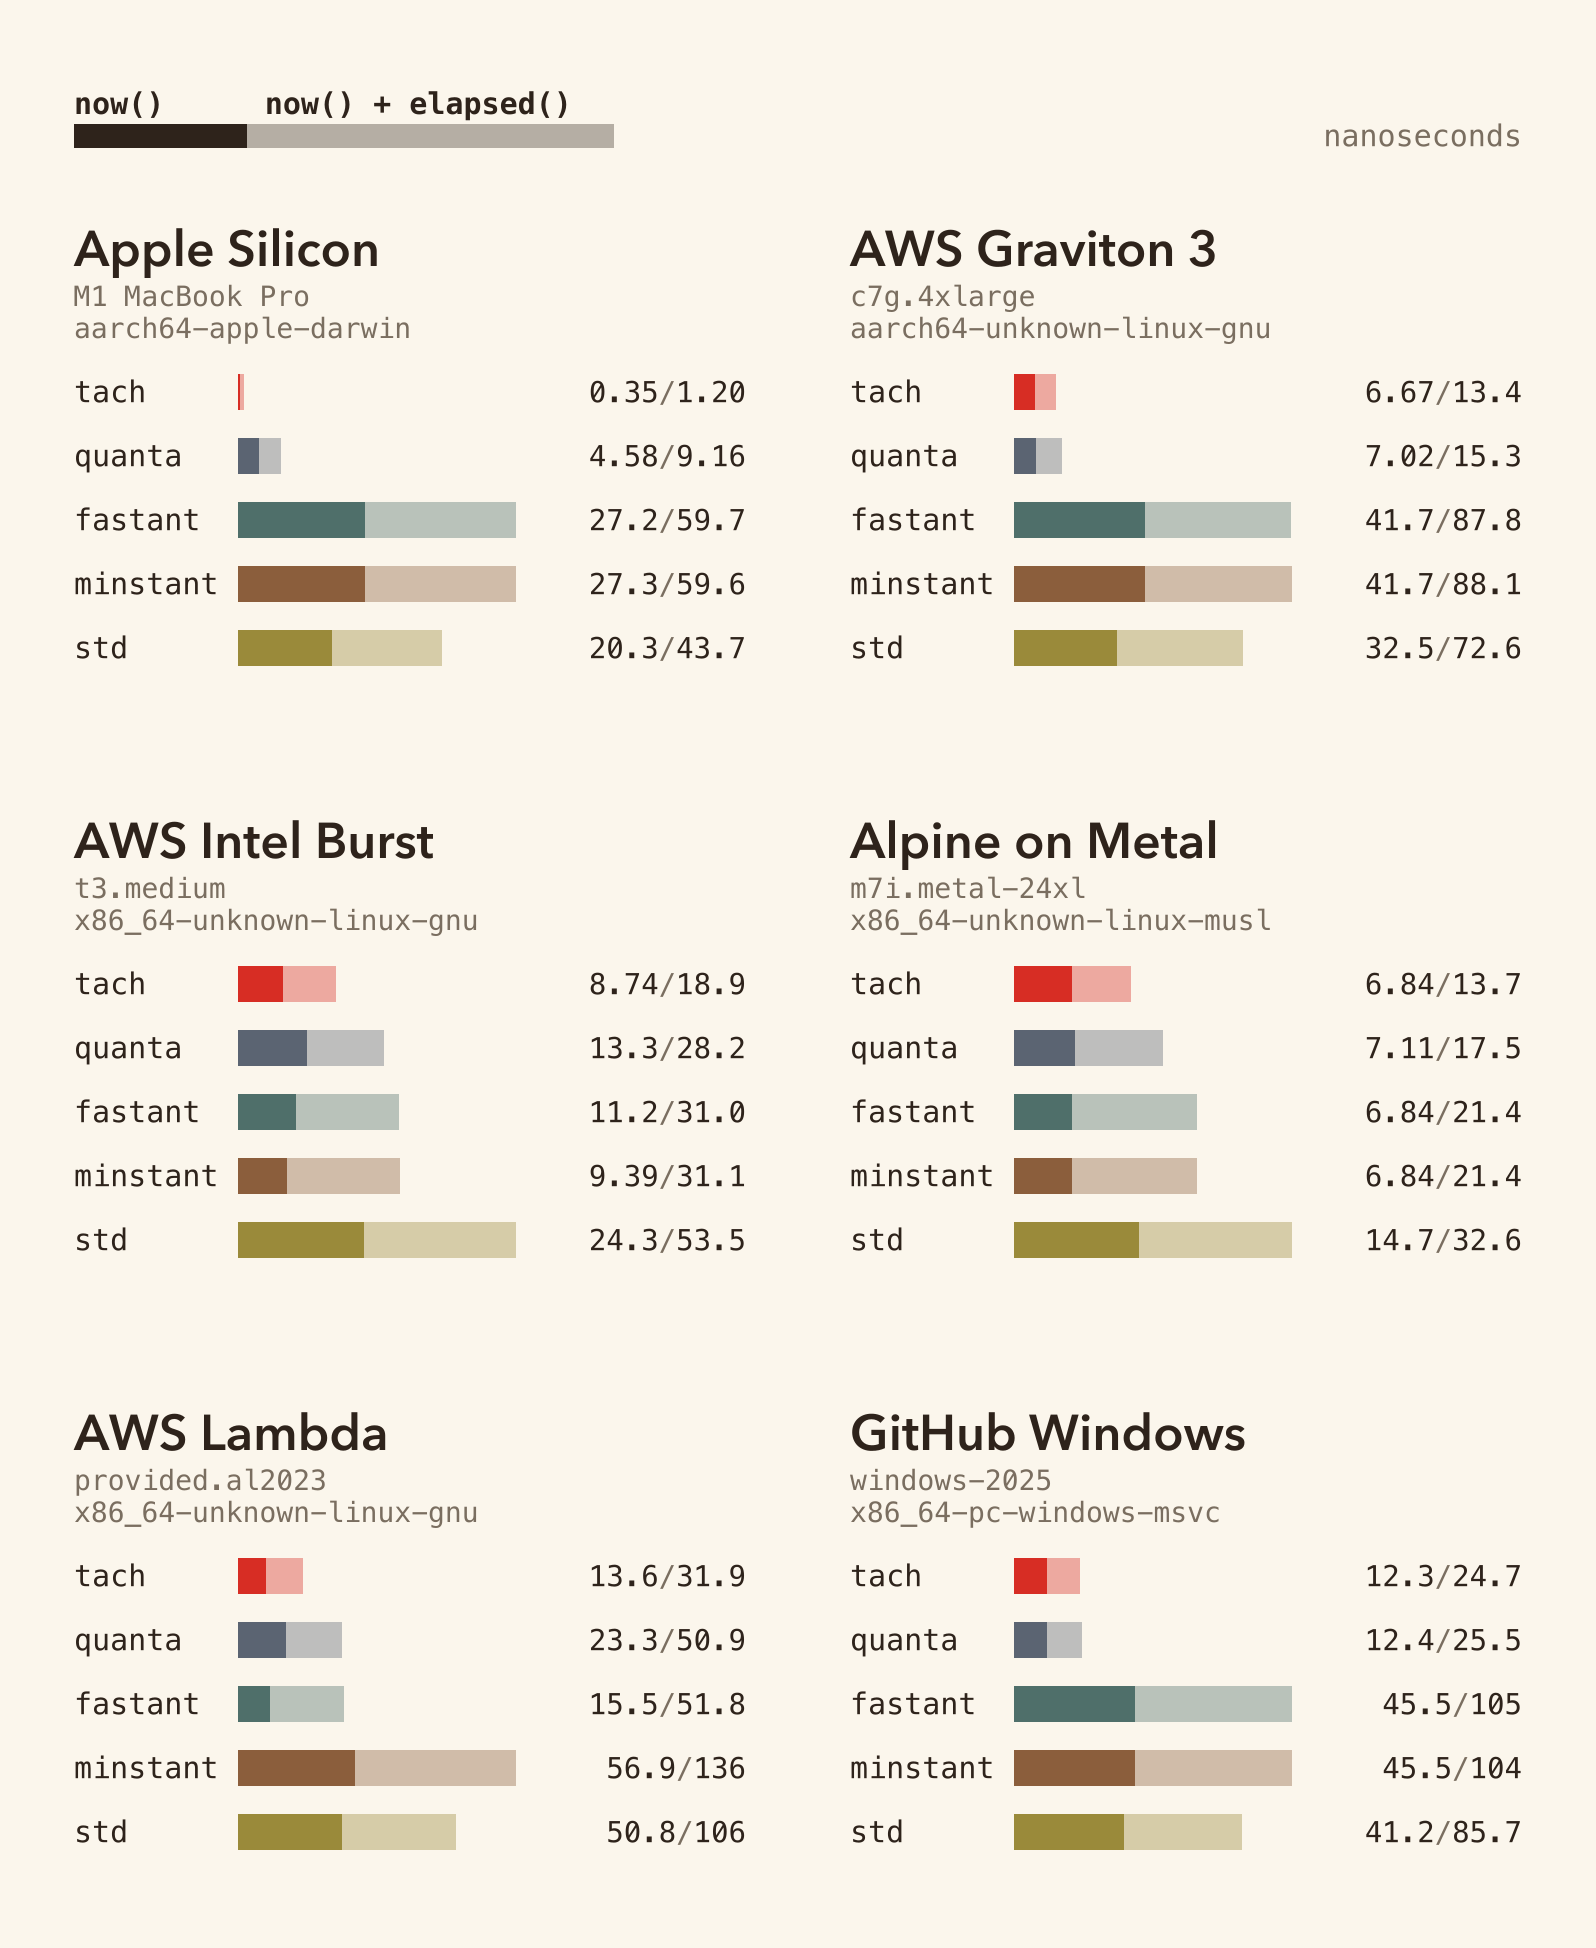
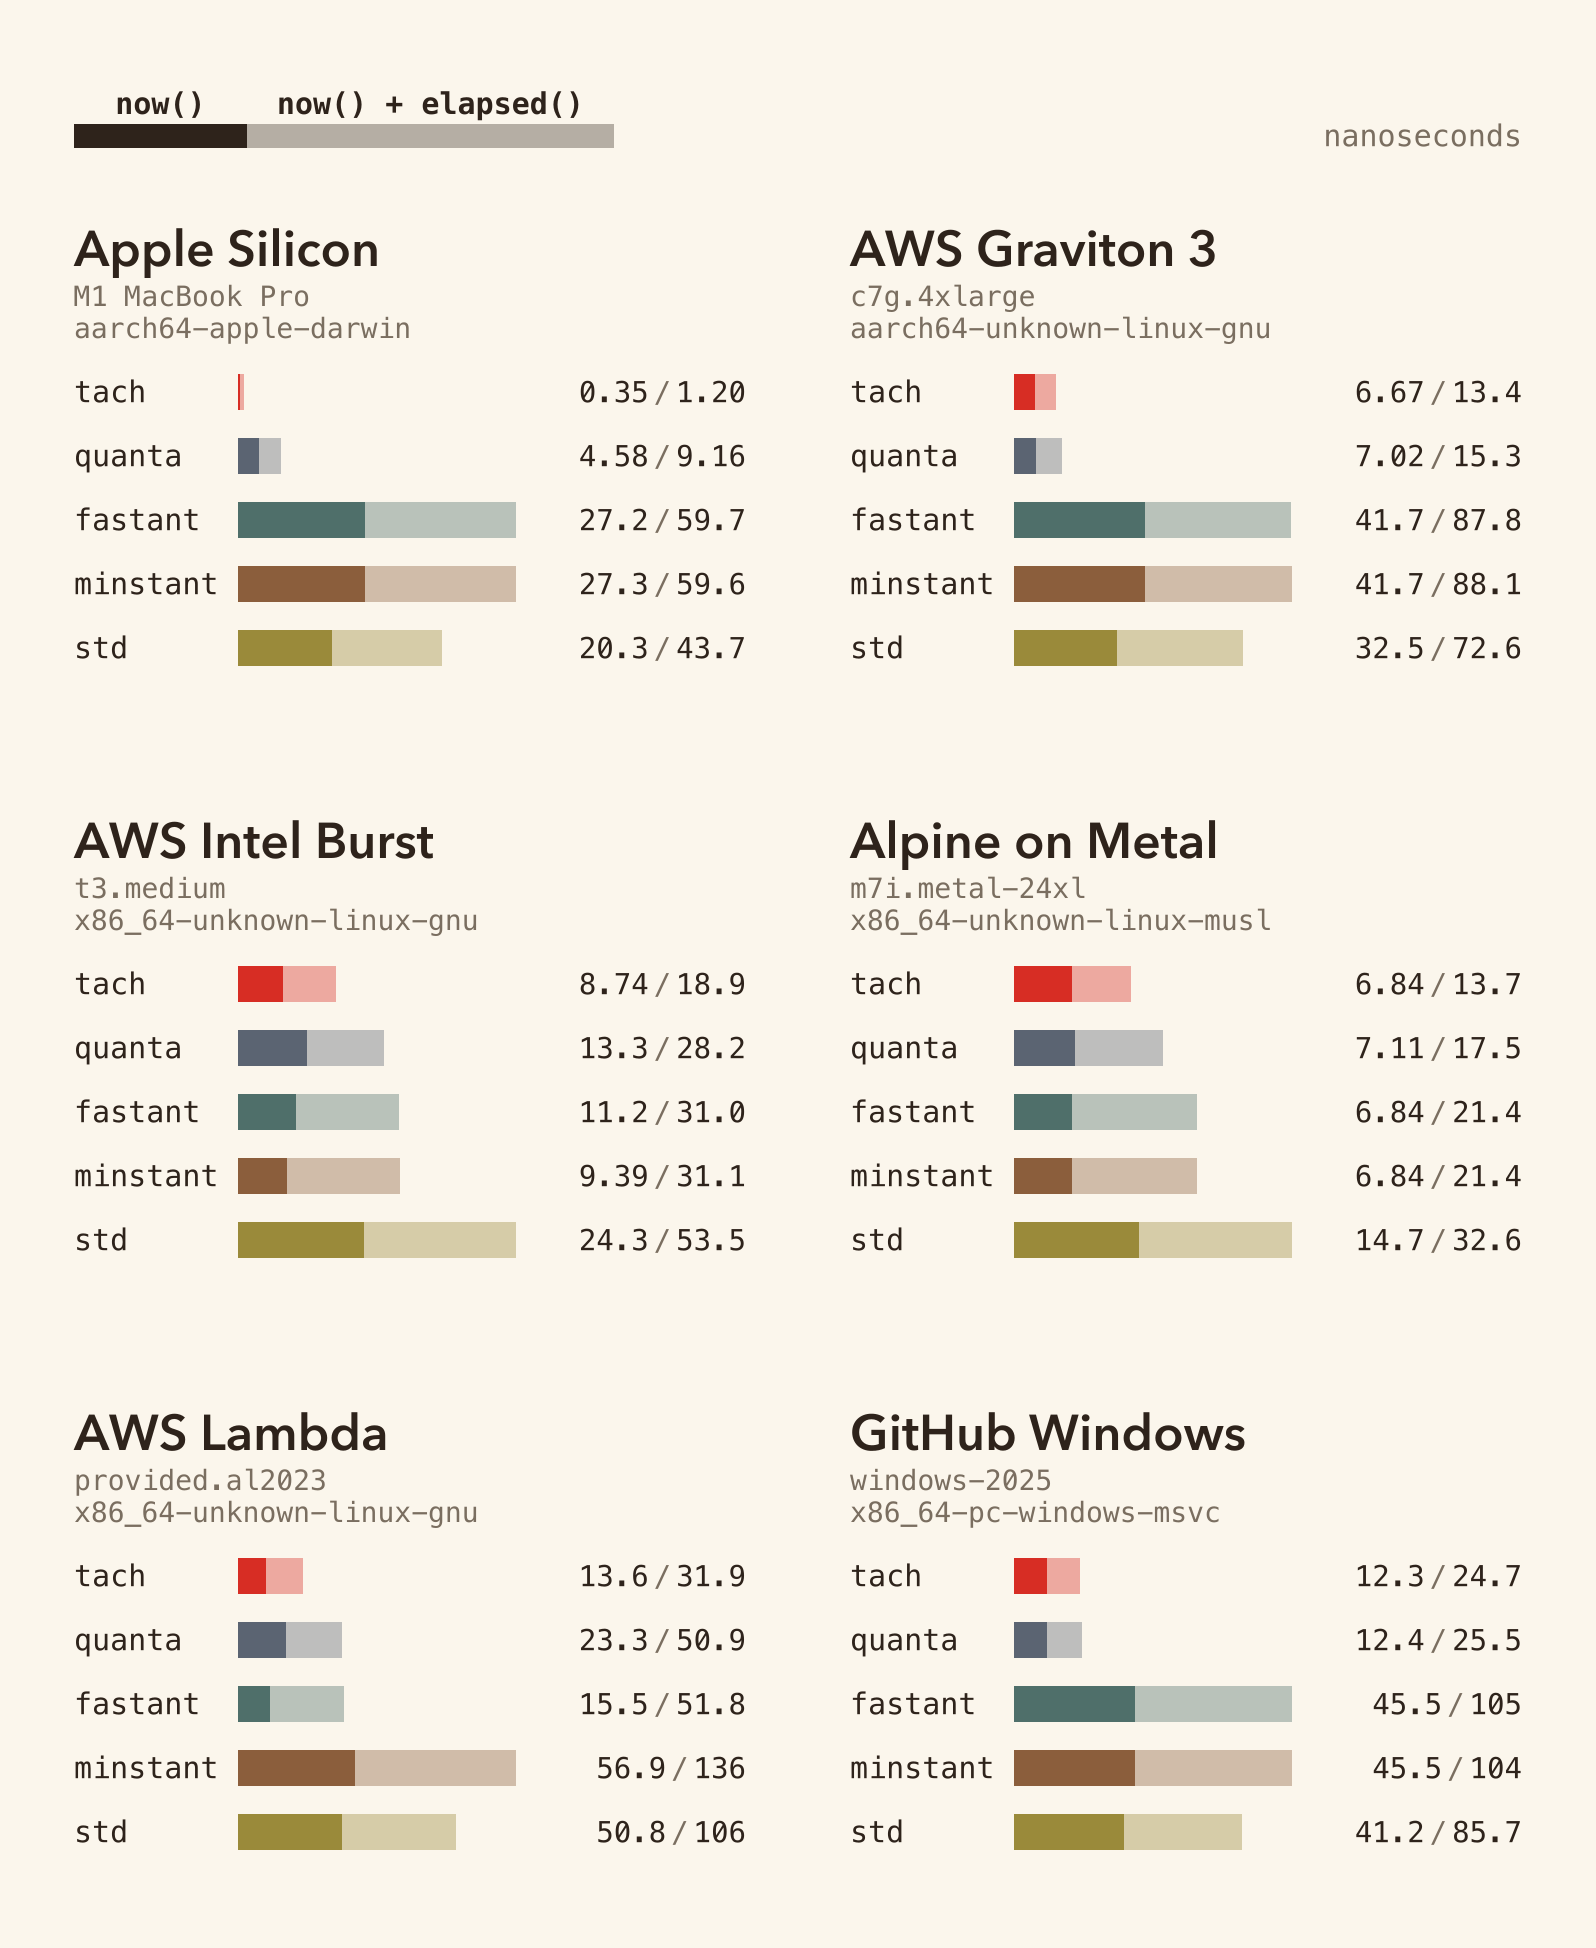
docs(benches): center legend labels over portions, breathe slash separator
- "now()" and "now() + elapsed()" labels now centered over their
  respective dark and light portions of the legend bar.
- Slash between metric values gets a small dx=5 offset on each
  side so the divider visually separates from the numbers.

diff --git a/benches/assets/render_benchmark.py b/benches/assets/render_benchmark.py
@@ -347,8 +347,9 @@ def render_grid_cell(now_group, elapsed_group, crates, x0: float, y0: float) -> 
       f'<text x="{value_x:g}" y="{text_baseline:g}" text-anchor="end" '
       f'font-family="{MONO}" font-size="{GRID_VALUE_FONT_SIZE}" fill="{TEXT_FG}">'
       f'{esc(value_label(now_v))}'
-      f'<tspan fill="{MUTED_FG}"> / </tspan>'
-      f'{esc(value_label(elapsed_v))}</text>'
+      f'<tspan dx="5" fill="{MUTED_FG}">/</tspan>'
+      f'<tspan dx="5">{esc(value_label(elapsed_v))}</tspan>'
+      f'</text>'
     )
 
   return parts
@@ -376,14 +377,16 @@ def render_grid_header(width: float, y0: float) -> list[str]:
   label_baseline = bar_y - GRID_HEADER_LABEL_GAP
   parts.append(
     styled_text(
-      bar_x, label_baseline, "now()",
-      GRID_LABEL_FONT_SIZE, family=MONO, anchor="start", weight="600",
+      bar_x + dark_w / 2, label_baseline, "now()",
+      GRID_LABEL_FONT_SIZE, family=MONO, anchor="middle", weight="600",
     )
   )
   parts.append(
     styled_text(
-      bar_x + dark_w + 18, label_baseline, "now() + elapsed()",
-      GRID_LABEL_FONT_SIZE, family=MONO, anchor="start", weight="600",
+      bar_x + dark_w + (GRID_HEADER_BAR_WIDTH - dark_w) / 2,
+      label_baseline,
+      "now() + elapsed()",
+      GRID_LABEL_FONT_SIZE, family=MONO, anchor="middle", weight="600",
     )
   )
 
